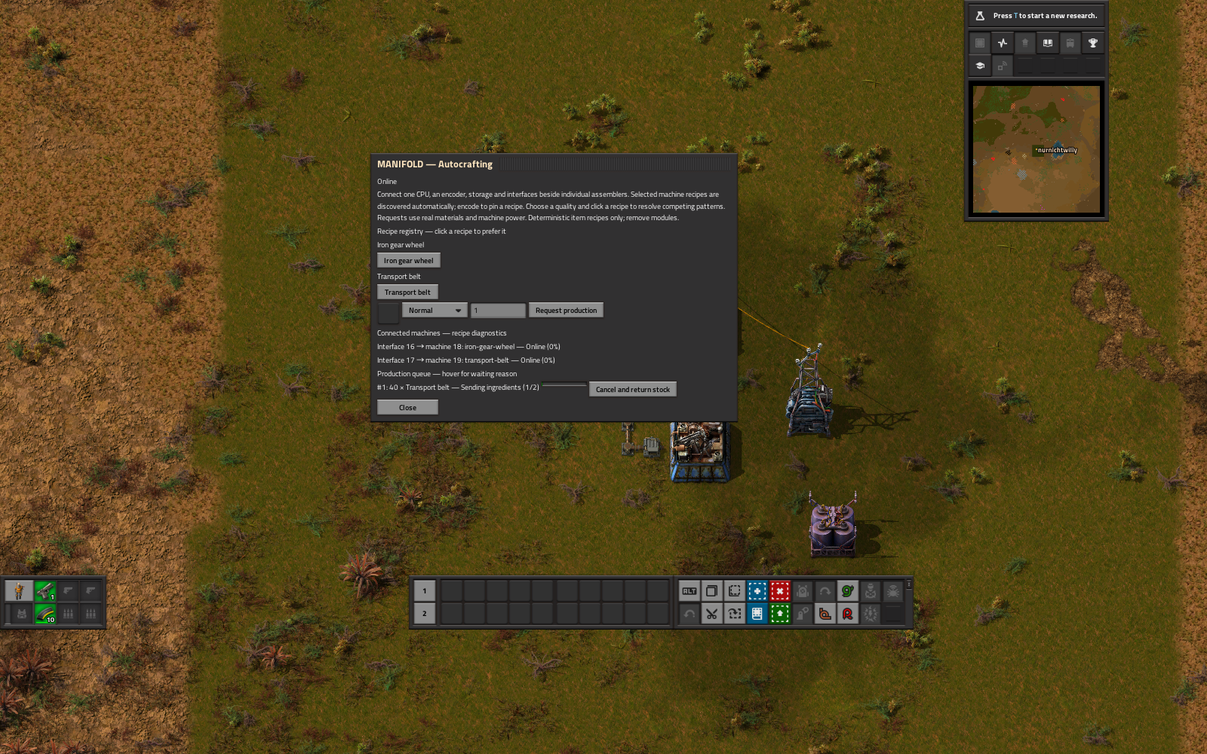
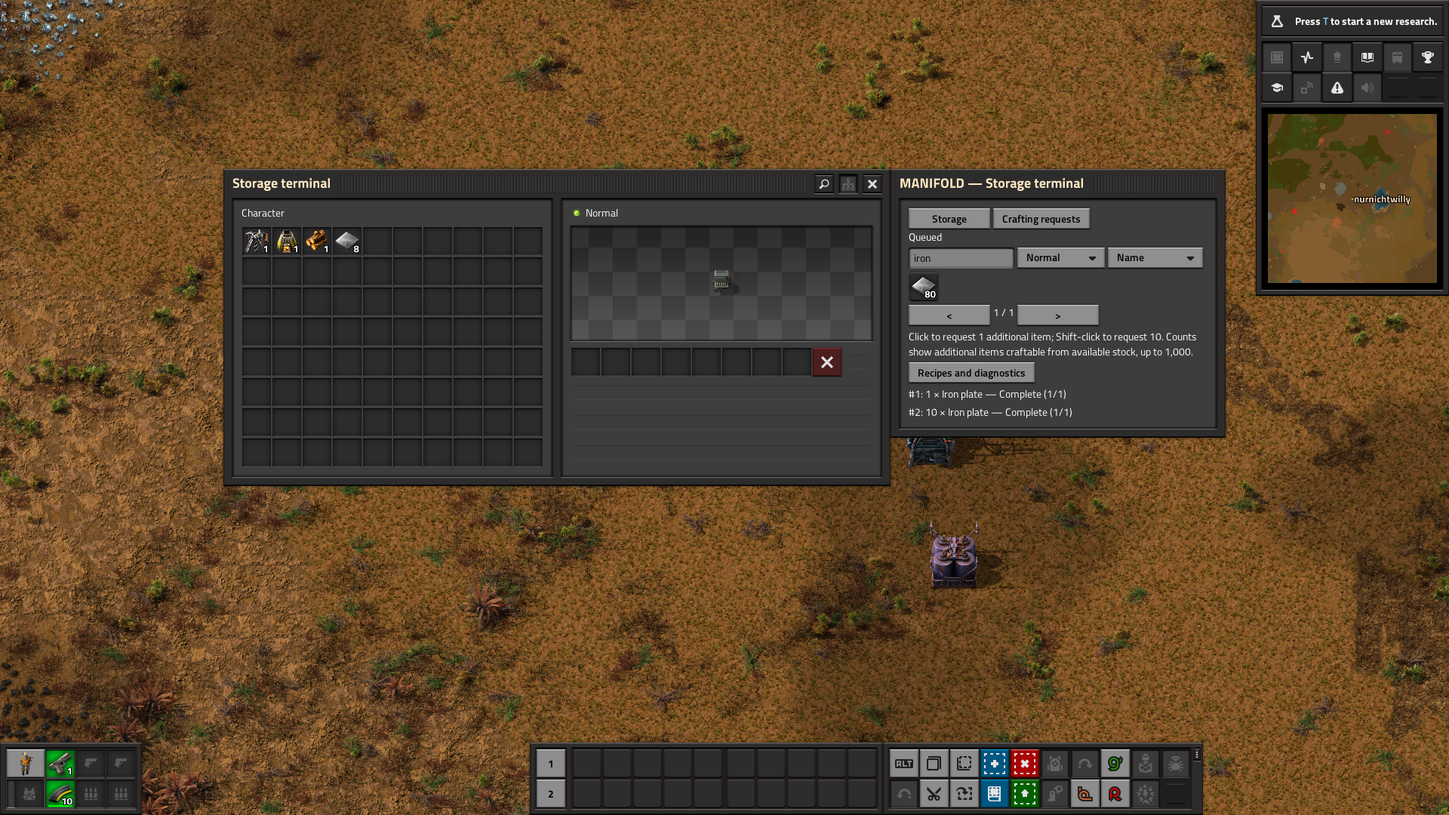
Document furnace crafting, terminal improvements and encoder removal

diff --git a/docs/CRAFTING.md b/docs/CRAFTING.md
@@ -1,15 +1,15 @@
-# Autocrafting — v0.6
+# Autocrafting
 
-Research Manifold autocrafting after Smart Manifold logistics and Automation 2: 200 red/green packs at 30 seconds. The encoder, crafting interface and CPU each cost ten steel plates and ten advanced circuits, taking three seconds. All are one-tile conducting network components with original graphics. The controller gates network operation; machines need their own electricity.
+Research Manifold autocrafting after Smart Manifold logistics and Automation 2: 200 red/green packs at 30 seconds. The crafting interface and CPU each cost ten steel plates and ten advanced circuits, taking three seconds. All are one-tile conducting network components with original graphics. The controller gates network operation; machines need their own electricity.
 
 ## Build and request
 
-1. Connect exactly one CPU, an encoder, storage and a terminal to a powered network.
-2. Put a crafting interface directly beside each assembler. Exactly one assembler may touch each interface. Multiple adjacent machines reject discovery and encoding; allow up to one second for endpoint refresh after placement changes.
-3. Choose recipes in native machine windows, remove modules and empty machine inputs/outputs. The encoder automatically discovers selected supported recipes on the first 32 interfaces. **Encode attached machine recipe** optionally pins the selected recipe and quality. A changed pinned recipe pauses discovery until restored or re-encoded. Existing v0.5 name-only encodings mean normal quality.
+1. Connect exactly one CPU, storage and a terminal to a powered network.
+2. Put a crafting interface directly beside each assembler or furnace. Exactly one assembler or furnace may touch each interface. Multiple adjacent machines reject discovery and encoding; allow up to one second for endpoint refresh after placement changes.
+3. For furnaces, run the desired smelting recipe once, then empty its input and output. The last used recipe is discovered while idle. Supply fuel separately for burner furnaces. Choose recipes in native machine windows, remove modules and empty machine inputs/outputs. The network automatically discovers selected supported recipes on the first 32 interfaces. **Pin attached machine recipe** optionally pins the selected recipe and quality. A changed pinned recipe pauses discovery until restored or pinned again. Existing v0.5 name-only encodings mean normal quality.
 4. Supply supported ingredients in cells or readable bus chests. Filters, circuit conditions and access policies apply.
-5. Open **Crafting requests** from a terminal, CPU, encoder or interface, or use `/manifold craft`. Choose an item, an unlocked quality and 1–1,000 additional items. Vanilla has normal quality. Standalone Quality and Space Age are independently supported.
-6. If multiple recipes make a needed item, click the desired recipe in the registry. This saves a CPU preference for that item and quality, including dependencies. **Clear preference** restores automatic selection when only one recipe exists. A missing preferred recipe rejects new requests; it never silently falls back. Duplicate machines for one recipe use the lowest interface ID. Selection does not load-balance machines or change recipes.
+5. Open **Crafting requests** from a terminal, CPU or interface, or use `/manifold craft`. Search the attached recipes, select an unlocked quality and click for one additional item or Shift-click for ten. The terminal has its own Crafting tab. The remote API accepts 1–1,000 additional items. Counts show recursively craftable additional items from available stock, capped at 1,000; stock already reserved by jobs is excluded. Vanilla has normal quality. Standalone Quality and Space Age are independently supported.
+6. If multiple recipes make a needed item, open **Recipes and diagnostics** and click the desired recipe. This saves a CPU preference for that item and quality, including dependencies. **Clear preference** restores automatic selection when only one recipe exists. A missing preferred recipe rejects new requests; it never silently falls back. Duplicate machines for one recipe use the lowest interface ID. Selection does not load-balance machines or change recipes.
 7. Watch machine diagnostics and job progress. Products and unused stock return to writable storage with room.
 
 For four normal transport belts, select normal gear and belt recipes in two assemblers, store six normal iron plates and request four normal belts. Two gear crafts precede two belt crafts. For rare belts, select rare recipes at both machines, store six rare iron plates and choose rare in the request panel. Existing intermediates of the requested quality reduce dependency work; existing final products never satisfy an additional-production request.
@@ -18,7 +18,7 @@ Recipe preferences belong to the physical CPU and survive native saves/configura
 
 ## Production monitoring
 
-The live registry displays the selected quality's recipes and marks unresolved ambiguity. Machine rows show attached entity IDs, usable recipes, discovery/encoding failures and native craft progress. A cap warning appears above 32 interfaces. Hover a job for its waiting reason, exact quality, completed and remaining machine crafts, elapsed seconds, seconds since the last item transfer/completed craft, physically counted escrow/transit, attached machine and actual machine progress/status. Progress bars count machine crafts rather than wall-clock estimates. These are not output-rate predictions or completion deadlines.
+The live registry displays the selected quality's recipes and marks unresolved ambiguity. Machine rows show attached entity IDs, usable recipes, discovery/encoding failures and native craft progress. A cap warning appears above 32 interfaces. Hover a job for its waiting reason, exact quality, completed and remaining machine crafts, elapsed seconds, seconds since the last item transfer/completed craft, physically counted escrow/transit, attached machine and actual machine progress/status. Job counters count collected machine crafts rather than wall-clock estimates. These are not output-rate predictions or completion deadlines.
 
 Offline local jobs remain visible/cancellable, but offline inspection exposes neither external stock nor discovered recipes. Completed elapsed time freezes at completion. v0.5 jobs retain their remaining plans; completed-craft counters begin when upgraded, since v0.5 did not record that history.
 
@@ -28,7 +28,7 @@ A bounded planner checks all dependencies before moving goods. Missing stock/pat
 
 Reservation transfers real supported stacks into a 128-slot engine-owned job inventory synchronously. The initial reserve may require at most 96 slots. Reserved goods leave storage and cannot be spent twice. Surplus intermediates are reused; excess products return physically. Machine feeds, collection and returns use one escrow stack per job, shortest routes, shared bidirectional edge/source capacity and tier/research latency. Delivery credits debit only actual insertion. Return targets account for matching item/quality transfers already admitted.
 
-Machines receive one craft's ingredients at a time and own delivered goods until collection. Manifold never manufactures scripted products, advances machine progress or supplies energy. Keep external inserters/players away from assigned inventories. Exclusive machine ownership prevents competing jobs from spending one machine's production. Each job runs dependencies sequentially; independent machines can service separate jobs.
+Machines receive bounded batches of ingredients, so a machine can start subsequent crafts while earlier output is being collected and own delivered goods until collection. Manifold never manufactures scripted products, advances machine progress or supplies energy. Keep external inserters/players away from assigned inventories. Exclusive machine ownership prevents competing jobs from spending one machine's production. Each job runs dependencies sequentially; independent machines can service separate jobs.
 
 ## Interruptions, cancellation and recovery
 
@@ -44,7 +44,7 @@ Native machine destruction can destroy machine-owned items. No replacement stock
 - First 32 interfaces, 32 drives and 32 buses by stable ID. Split larger networks.
 - Depth 16, 256 demand visits, 64 steps, 4,096 crafts and 96 initial reserve slots. Oversized requests reject before reservation.
 - One deterministic plain, nonspoilable item result and one to eight plain, nonspoilable item ingredients. Normal and available unlocked qualities use the same exact-quality rules.
-- No fluids, furnaces, probabilistic/byproduct recipes, spoilables, modules or positive quality bonuses. Random quality upgrades are not supported. No automatic machine recipe assignment, alternative-route/load-balanced production or global factory discovery.
+- No fluids, probabilistic/byproduct recipes, spoilables, modules or positive quality bonuses. Random quality upgrades are not supported. No automatic machine recipe assignment, alternative-route/load-balanced production or global factory discovery.
 - Multiplayer ordering is deterministic by construction, but two-client join/desync tests remain unverified.
 
 ## Integration API
@@ -58,4 +58,10 @@ The `manifold` remote interface exposes:
 - `crafting_cancel(player_index, device, job_id)` cancels locally, including offline.
 - `recover(player_index)` transfers only that force's recoverable goods.
 
-Mutation requests recheck player reach, force/surface ownership, online network and one CPU. Inspection checks reach/ownership, with local job visibility offline. No writable inventory references escape through the API. Interface discovery requires an encoder; already encoded patterns retain their existing v0.5 operation if the encoder is removed.
+Mutation requests recheck player reach, force/surface ownership, online network and one CPU. Inspection checks reach/ownership, with local job visibility offline. No writable inventory references escape through the API. Interface discovery and recipe pinning need no encoder.
+
+## Encoder removal (0.11.7 / 0.12.3)
+
+The Pattern Encoder entity, item and recipe have been removed. Factorio removes placed encoders and stored encoder items when an existing save loads with this version; there is no replacement or refund. If an encoder was connecting parts of a network, reconnect those parts with conduits. Existing interface pins, CPU preferences and job inventories remain. Old in-flight single-craft jobs finish their current craft before using batches.
+
+Batching reduces per-craft transport round trips; it does not promise 100% machine uptime. Shared bandwidth and latency still apply. Cancellation leaves all ingredients already delivered to the machine there, including prefed batch ingredients.

diff --git a/docs/GUIDE.md b/docs/GUIDE.md
@@ -64,15 +64,15 @@ The terminal indexes up to 32 drives and 32 buses, using live physical counts. D
 
 To gate an interface or bus, wire its **attached chest or machine** to a circuit network, choose an enable signal, comparison and threshold. For a drive, wire the drive itself. Red and green values are added, absent signals read as zero, and an empty signal disables the condition. Ordinary wired chests can expose their contents through Factorio's native circuit controls. Network-wide item signal broadcasting is not included. See [logistics details](LOGISTICS.md).
 
-## Autocrafting (v0.6)
+## Autocrafting
 
-Research **Manifold autocrafting** after Smart Manifold logistics and Automation 2 (200 red/green science). Connect one **Crafting CPU**, a **Pattern encoder**, storage, a terminal and one **Crafting interface** beside each assembling machine. Set recipes in the native machine windows; leave the machines empty and supply their electricity. The encoder automatically discovers selected recipes at the first 32 connected interfaces. Each interface must touch exactly one assembler; ambiguous placement is rejected. Optionally choose **Encode attached machine recipe** to pin its recipe and quality; encoded settings survive saves, blueprint tags and cloning.
+Research **Manifold autocrafting** after Smart Manifold logistics and Automation 2 (200 red/green science). Connect one **Crafting CPU**, storage, a terminal and one **Crafting interface** beside each assembling machine or furnace. Set recipes in the native machine windows; leave the machines empty and supply their electricity. The network automatically discovers selected recipes at the first 32 connected interfaces. Each interface must touch exactly one assembler or furnace; ambiguous placement is rejected. Optionally choose **Pin attached machine recipe** to pin its recipe and quality; encoded settings survive saves, blueprint tags and cloning.
 
-Open the CPU or the terminal's **Crafting requests** button, choose an item and enter an additional production amount (1–1,000). For four transport belts, encode iron gear wheels and transport belts and store six iron plates. The planner reserves those six real plates, schedules two gear crafts followed by two belt crafts, and returns the four belts to storage. Existing intermediate stock reduces dependency work. Another request cannot spend stock already reserved.
+Open the CPU or the terminal's **Crafting requests** tab, search the attached recipes and click to request one additional item or Shift-click for ten. Counts show recursively craftable quantities from available stock, capped at 1,000. For four transport belts, select iron gear wheels and transport belts in their assemblers, store six iron plates and request four through the remote API. A one-item click on the two-result belt recipe performs one craft and returns both belts. The planner reserves those six real plates, schedules two gear crafts followed by two belt crafts, and returns the four belts to storage. Existing intermediate stock reduces dependency work. Another request cannot spend stock already reserved.
 
-Machine feeds, product collection and storage returns use shared network link/source credits and latency. Machines perform every craft using their own time and electricity. The recipe registry lists competing recipes; click one to save a preference per item/quality on the CPU. Missing preferred recipes reject new requests rather than silently switching. Machine rows show discovery diagnostics, and queue tooltips report completed/remaining crafts, elapsed time, last item movement, physical escrow and actual machine progress/status. Full storage, disconnected links, a changed recipe or power loss pause safely. **Cancel and return stock** returns goods still owned by the job; ingredients already delivered to a machine remain in that machine. If a CPU is removed, use `/manifold recover` or the analyzer recovery button to retrieve the remaining job escrow.
+Machine feeds, product collection and storage returns use shared network link/source credits and latency. Machines perform every craft using their own time and electricity. **Recipes and diagnostics** lists competing recipes; click one to save a preference per item/quality on the CPU. Missing preferred recipes reject new requests rather than silently switching. Machine rows show discovery diagnostics, and queue tooltips report completed/remaining crafts, elapsed time, last item movement, physical escrow and actual machine progress/status. Full storage, disconnected links, a changed recipe or power loss pause safely. **Cancel and return stock** returns goods still owned by the job; ingredients already delivered to a machine remain in that machine. If a CPU is removed, use `/manifold recover` or the analyzer recovery button to retrieve the remaining job escrow.
 
-v0.6 supports deterministic, single-item-result recipes with at most eight plain, nonspoilable item ingredients in connected assembling machines without modules or positive quality effects. Select an unlocked quality in the request panel; every dependency machine recipe and reserved ingredient must use that exact quality. Standalone Quality and Space Age are optional; vanilla uses normal quality. Fluids, furnaces, probabilistic/byproduct recipes and random quality upgrades remain future work. Keep inserters and other automation away from assigned machine inventories. A request runs each dependency sequentially; the queue holds up to 32 requests. Read [crafting details and recovery](CRAFTING.md).
+Autocrafting supports deterministic, single-item-result recipes with at most eight plain, nonspoilable item ingredients in connected assembling machines or furnaces without modules or positive quality effects. Select an unlocked quality in the request panel; every dependency machine recipe and reserved ingredient must use that exact quality. Standalone Quality and Space Age are optional; vanilla uses normal quality. Fluids, probabilistic/byproduct recipes and random quality upgrades remain future work. Keep inserters and other automation away from assigned machine inventories. A request runs each dependency sequentially; the queue holds up to 32 requests. Read [crafting details and recovery](CRAFTING.md).
 
 ## Space Age and vanilla endgame (v0.8/v0.9)
 
@@ -112,3 +112,11 @@ The analyzer reports controller source capacity, the measured congested connecti
 - Empty all packets, recover orphaned items and empty buffers/cells before disabling/removing the mod. Removing a mod deletes its engine-owned inventories; no cross-mod uninstall preservation is implemented.
 - Graphical interface inspection, Ctrl+M, output mining and player recovery have been verified. Multiplayer join/desync checks, blueprint/robot placement, surface/force migration remain unverified. Native Upgrade Planner selection was verified in the graphical client; engine construction robots completed controller/conduit upgrades during conserved live transit. See [known limitations](KNOWN_LIMITATIONS.md).
 
+
+### Crafting interface changes (0.11.7 / 0.12.3)
+
+The terminal includes a Crafting tab with attached recipes, item search, Factorio/name ordering and recursive material availability (up to 1,000 additional items). Click for 1 item or Shift-click for 10. Recipe alternatives and machine details are under Recipes and diagnostics. Storage offers name, quantity, quality and Factorio ordering. Component diagnostics are collapsed by default.
+
+Furnaces are supported: smelt one item to establish their last recipe, empty the input/output, attach a crafting interface and supply power or burner fuel. Modules and probabilistic/multiple-product recipes remain unsupported.
+
+Pattern Encoders are removed, including placed entities and stored items in existing saves. Reconnect network gaps with conduits. Interfaces discover recipes without an encoder; existing recipe pins remain.

diff --git a/README.md b/README.md
@@ -17,7 +17,7 @@
 - **Regional freight:** coordinate providers, requesters and depot trains. Inserters load and unload real wagons.
 - **Vanilla endgame:** advanced hardware reaches a six-tick minimum local packet delay; default capacity is 160 items/s, or 280 with all bandwidth ranks.
 - **Optional Space Age:** planetary research, freshness-preserving movement between native inventories and native rocket/platform material requests.
-- **Original industrial artwork:** animated operating mechanisms across all thirteen machine families, with paired shadows and 55 direction/design views.
+- **Original industrial artwork:** animated operating mechanisms across all twelve machine families, with paired shadows and 54 direction/design views.
 
 ![Machine crafting and production monitoring in Factorio](release/media/crafting-ui.png)
 
@@ -29,8 +29,8 @@ Pair Manifold with [Resource Compressor Extended](https://mods.factorio.com/mod/
 
 | Your Factorio version | Manifold download | Optional compressor companion |
 | --- | --- | --- |
-| **2.0.77+ in the 2.0 series** | [0.11.6](https://github.com/NurNichtWilly/factorio-manifold-releases/releases/download/v0.11.6/manifold_0.11.6.zip) | [Resource Compressor 3.0.0](https://github.com/NurNichtWilly/factorio-faccompress-releases/releases/tag/v3.0.0) |
-| **2.1.22+ in the 2.1 series** | [0.12.2](https://github.com/NurNichtWilly/factorio-manifold-releases/releases/download/v0.12.2/manifold_0.12.2.zip) | [Resource Compressor 3.1.0](https://github.com/NurNichtWilly/factorio-faccompress-releases/releases/tag/v3.1.0) |
+| **2.0.77+ in the 2.0 series** | [0.11.7](https://github.com/NurNichtWilly/factorio-manifold-releases/releases/download/v0.11.7/manifold_0.11.7.zip) | [Resource Compressor 3.0.0](https://github.com/NurNichtWilly/factorio-faccompress-releases/releases/tag/v3.0.0) |
+| **2.1.22+ in the 2.1 series** | [0.12.3](https://github.com/NurNichtWilly/factorio-manifold-releases/releases/download/v0.12.3/manifold_0.12.3.zip) | [Resource Compressor 3.1.0](https://github.com/NurNichtWilly/factorio-faccompress-releases/releases/tag/v3.1.0) |
 
 1. Download the ZIP for your game version. GitHub's automatic **Source code** archives are not installable mods.
 2. Put the ZIP, without extracting it, in your Factorio `mods` folder.
@@ -65,11 +65,11 @@ Supply the controller from an electric pole and put iron plates in the source ch
 
 Click a component or press **Ctrl+M** over it for diagnostics. Remove and reconnect a conduit to try interruption handling. Destroyed endpoints can leave recoverable items: use **Recover orphaned items** or `/manifold recover`.
 
-Next, unlock central storage and connect a drive with a cell and a terminal. For crafting, connect a CPU, encoder and crafting interfaces beside empty assembling machines with their recipes selected. The [player guide](docs/GUIDE.md) walks through storage, filtering, train setup and crafting.
+Next, unlock central storage and connect a drive with a cell and a terminal. For crafting, connect a CPU and crafting interfaces beside empty assembling machines or furnaces with known recipes. The [player guide](docs/GUIDE.md) walks through storage, filtering, train setup and crafting.
 
 ## Scope of this preview
 
-The core logistics, storage and bounded crafting systems are implemented. The original five-stage design remains a longer-term target; the current game has three transport hardware tiers. Crafting supports deterministic recipes with a single item result and up to eight nonspoilable item ingredients, without modules or positive quality effects. Fluids, furnaces and probabilistic recycling/quality production are outside its current scope.
+The core logistics, storage and bounded crafting systems are implemented. The original five-stage design remains a longer-term target; the current game has three transport hardware tiers. Crafting supports deterministic recipes with a single item result and up to eight nonspoilable item ingredients, without modules or positive quality effects. Fluids and probabilistic recycling/quality production are outside its current scope.
 
 [Known limitations](docs/KNOWN_LIMITATIONS.md) describes practical bounds and unverified cases. [Progression](docs/PROGRESSION.md) lists actual unlocks and rates. The MIT license covers original mod code and artwork; Factorio is required and is not included.
 

diff --git a/docs/KNOWN_LIMITATIONS.md b/docs/KNOWN_LIMITATIONS.md
@@ -7,7 +7,7 @@ Manifold is a public preview: 0.11.6 targets Factorio 2.0.77+ in the 2.0 series;
 - Three transport hardware tiers ship: basic/copper, reinforced and advanced. The original five science stages, blue/purple/yellow intermediate hardware, advanced storage drives and additional large cells are not all implemented. Energy-efficiency research is not implemented.
 - Ordinary packets and cells accept undamaged plain nonspoilable items. Ammo, tools, blueprints, tagged stacks, vehicles and equipment-bearing items are unsupported. Cells have 16 or 64 native inventory slots; quality does not enlarge them.
 - Freshness-aware logistics separately transfers perishables between native inventories. Digital cells, crafting escrow and regional freight reservations reject perishables. Freshness-aware crafting, age-based production planning and expiry alerts are not implemented.
-- Autocrafting uses connected assembling machines with deterministic single-item-result recipes and at most eight supported ingredients. Fluids, furnaces, probabilistic/multiple-product recipes, modules and positive quality effects are rejected. Exact-quality ingredients and recipes must match. Machines should be empty when assigned; keep competing inserters/automation away from them. Cancel returns job-owned stock, not ingredients already delivered to a machine.
+- Autocrafting uses connected assembling machines or furnaces with deterministic single-item-result recipes and at most eight supported ingredients. Fluids, probabilistic/multiple-product recipes, modules and positive quality effects are rejected. Exact-quality ingredients and recipes must match. Machines should be empty when assigned; keep competing inserters/automation away from them. Cancel returns job-owned stock, not ingredients already delivered to a machine.
 - A terminal indexes the first 32 drives and 32 buses in stable order (up to 128 cells/8,192 cell slots). Crafting discovery considers the first 32 interfaces; request queues hold up to 32 jobs. Regional planning considers the first 64 coordinators and up to 32 jobs. These are intentional work bounds, not unlimited factory support.
 - Buses do not rebalance inventories automatically. Circuit conditions read an attached chest/machine (or the drive); network-wide stock broadcasting is not implemented.
 - Routing selects deterministic shortest paths. Distinct branches share separate capacity, but equal or longer alternative paths are not selected dynamically to avoid congestion. No permanent traffic overlay, historical throughput chart or per-hop packet position is provided.

diff --git a/release/RELEASE_NOTES.md b/release/RELEASE_NOTES.md
@@ -1,9 +1,14 @@
-# Manifold — sandbox click fix
+# Manifold — Portal feedback update
 
-The previous sandbox patch fixed the window APIs, but ordinary clicks could still fail before reaching them: a characterless controller can display an entity highlight while `player.selected` is empty. Manifold now resolves the target from the input's cursor position for clicks and Ctrl+M, while ignoring inputs over GUI elements.
+Downloads: **0.11.7 for Factorio 2.0.77+**, **0.12.3 for Factorio 2.1.22+**.
 
-Use **0.11.6 for Factorio 2.0.77+** or **0.12.2 for Factorio 2.1.22+**. The infinity-chest and standalone-window fixes remain included.
+- Fix visible component windows in remote sandbox views while the character remains on another surface.
+- Add furnace autocrafting using the last smelting recipe. Prime a furnace once and empty it before assigning it; supply burner fuel separately.
+- Feed bounded batches so machines can work through multiple crafts before another full feed/collection cycle.
+- Request crafts directly in the storage terminal. Search/sort attached recipes, click for one item or Shift-click for ten, and see recursively craftable quantities (capped at 1,000).
+- Add storage sorting and hide detailed component/recipe/machine diagnostics behind explicit buttons.
+- Remove the Pattern Encoder entirely. Existing encoder entities and items disappear on upgrade without refund. Reconnect network gaps with conduits. Existing interface pins and CPU preferences remain.
 
-Validation includes the registered production input handlers, native selection recovery from an empty selection in god/editor/spectator modes, window access and persistence, and a real mouse/keyboard reproduction with Kux-BlueprintExtensions 4.3.18 and Kux-CoreLib 4.17.10. The previous version's empty-selection click failure was reproduced directly.
+Shared bandwidth/latency still limit production; 100% uptime is not guaranteed. Fluids, probabilistic/multiple-product recipes, modules and positive quality effects remain outside the supported scope. Multiplayer and arbitrary overhaul combinations remain unverified.
 
-This remains a public preview. Multiplayer, long campaigns and arbitrary overhaul combinations remain unverified.
+Native production, GUI, save/reload and upgrade tests passed on Factorio 2.1.23, including Blueprint Sandboxes 3.3.0, standalone Quality and Space Age. The 2.0 package has static API and archive checks; a fresh 2.0 engine run was unavailable. Both remain public previews.

diff --git a/CHANGELOG.md b/CHANGELOG.md
@@ -1,3 +1,12 @@
+# 0.11.7 / 0.12.3 — 2026-10-23
+
+- Remove the Pattern Encoder entity, item and recipe, including existing save contents. Reconnect any network gap with conduits; recipe discovery and pins work without an encoder.
+- Support assembler and furnace recipes; idle furnaces use their last smelting recipe. Supply burner fuel separately.
+- Prefeed bounded batches instead of waiting for every individual craft round trip.
+- Add terminal crafting, attached-recipe search/order, click/Shift-click requests and recursive material previews; move detailed machine/recipe diagnostics behind a button.
+- Add storage sorting and concise component views with expandable diagnostics.
+- Fix component windows when a remote sandbox is on a different surface from the player's character.
+
 # 0.11.6 / 0.12.2 — 2026-10-21
 
 - Resolve world selection from the input event before opening a component. In a characterless sandbox, a highlighted entity may still be absent from `player.selected`.
